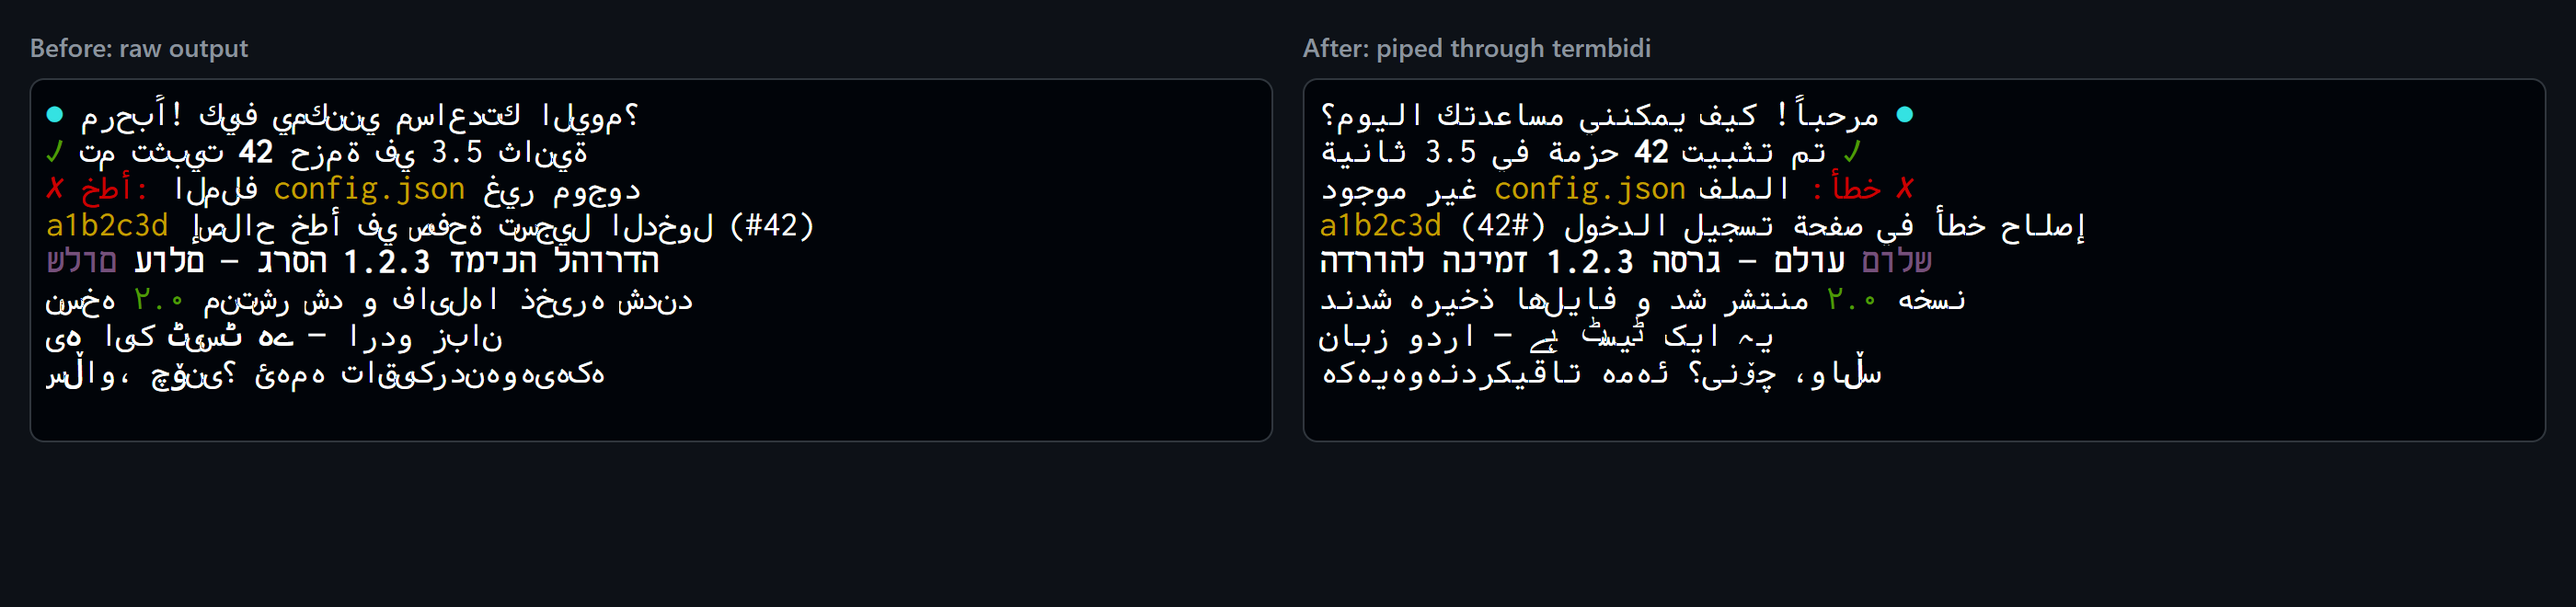
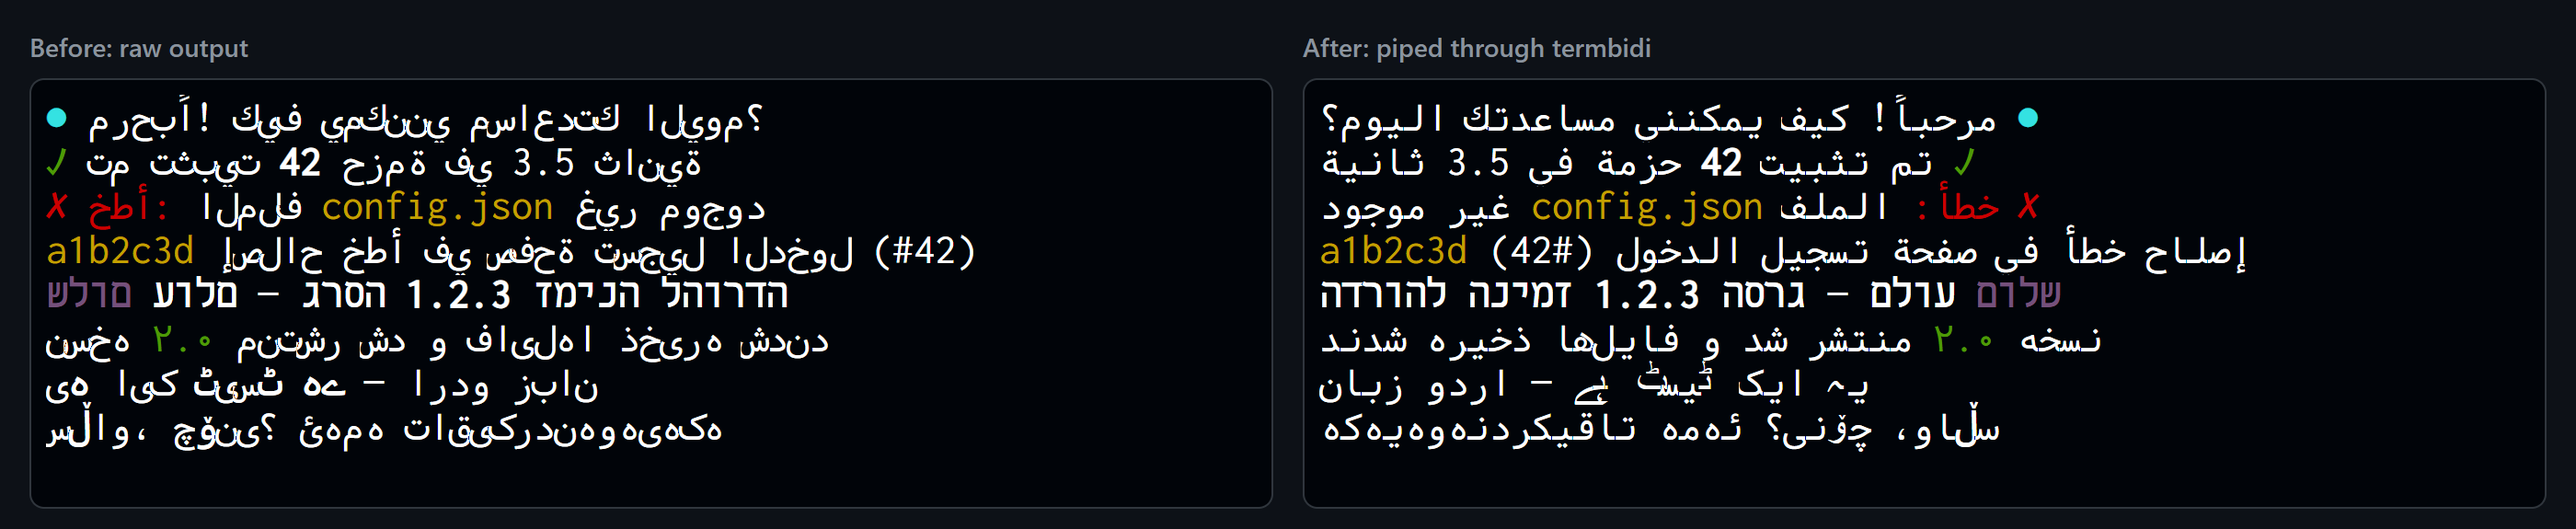
Re-render both README screenshots at the same larger size with Vazir Code

diff --git a/docs/design/README.md b/docs/design/README.md
@@ -10,4 +10,4 @@ python -m http.server 8000
 chrome --headless=new --window-size=1280,640 --force-device-scale-factor=2 --screenshot=banner.png http://localhost:8000/banner.html
 ```
 
-The terminal screenshots use Vazir Code (public domain): `node scripts/render-page.mjs <xterm dir> render.html`, then open `render.html?font=vazir.woff2&family=vazir&size=19&cols=52`.
+The terminal screenshots use Vazir Code (public domain): `node scripts/render-page.mjs <xterm dir> render.html`, then open `render.html?font=vazir.woff2&family=vazir&size=23&cols=48`.
